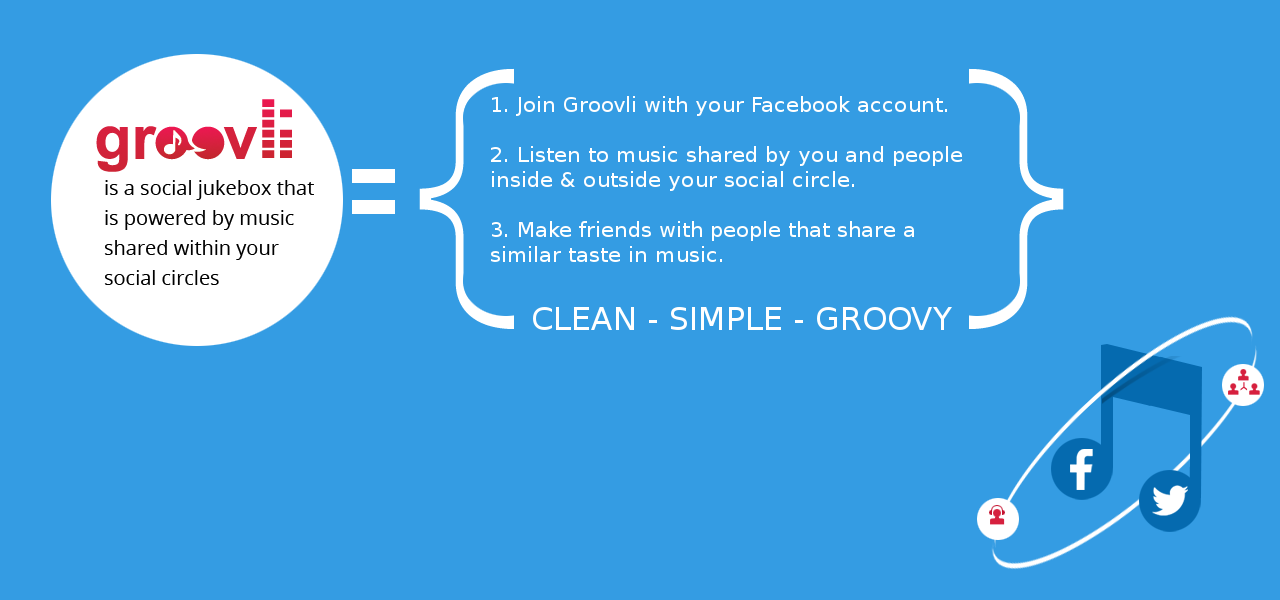
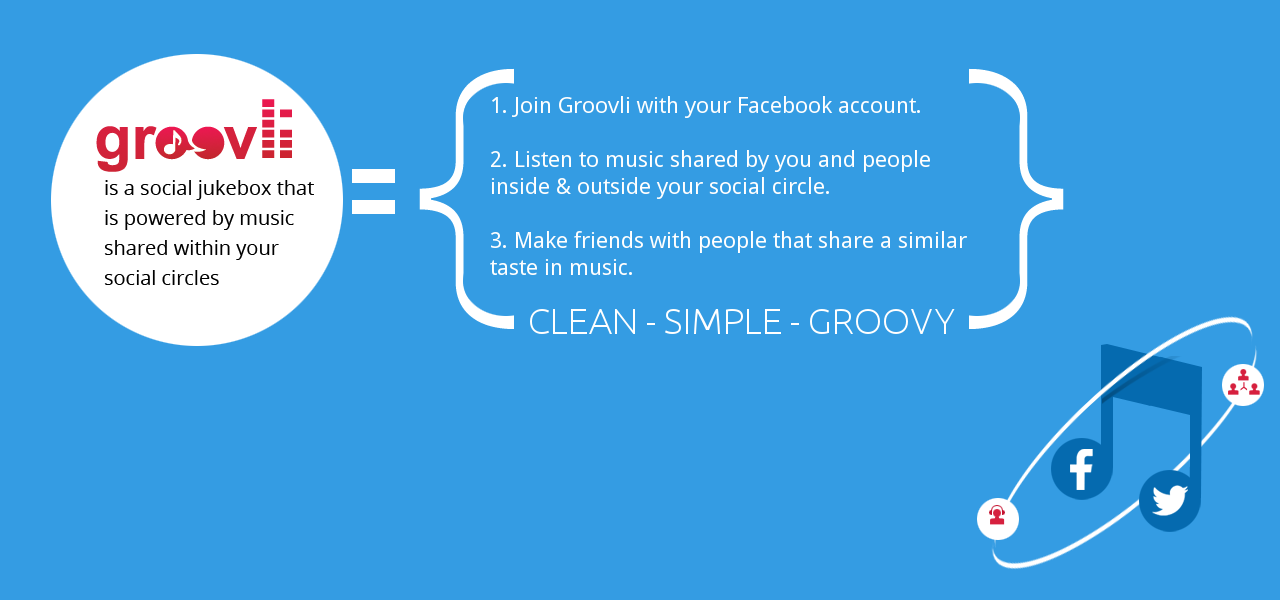
made visual tweaks to landing page to more closely resemble the visual prototypes

diff --git a/client/templates/semantic/landing/semanticLanding.html b/client/templates/semantic/landing/semanticLanding.html
@@ -1,7 +1,8 @@
 <template name="semanticLanding">
 <!-- Landing Page Menu -->
 	<div class="ui two column centered grid">
-		<div class="eleven wide column mastheadHomeOrange">
+		<div class="three wide computer column mastheadHomeOrange"></div>
+		<div class="ten wide column mastheadHomeOrange">
 			<div style="background-color:white;">
 				<div class="ui secondary menu">
 				  <div class="ui container">
@@ -11,8 +12,7 @@
 					<div class="right menu">
 						<div class="item">
 							{{#if currentUser}}
-								<a id="clickHomeFromLanding" class="item">Home</a>
-								<div class="header item">logged in as {{currentUser.services.facebook.first_name}} <img class="ui avatar image" src="http://graph.facebook.com/{{currentUser.services.facebook.id}}/picture?type=square"></div> (<a id="logout" class="item">Logout</a>)
+								<a id="clickHomeFromLanding" class="item">Home</a><img class="ui avatar image" src="http://graph.facebook.com/{{currentUser.services.facebook.id}}/picture?type=square"><a id="logout" class="item">Logout</a>
 								<!--
 								<a class="ui simple dropdown landingDropdownMenu item">
 									<img class="ui avatar image" src="http://graph.facebook.com/{{currentUser.services.facebook.id}}/picture?type=square"> {{currentUser.services.facebook.first_name}}
@@ -50,51 +50,61 @@
 			    </div>
 			</div>
 		</div>
+		<div class="three wide computer column mastheadHomeOrange"></div>
 	</div>
 
 <!-- What's trending section-->
 	<div class="ui two column centered grid">
-		<div class="eleven wide column homePlayerTabsContainerBoxBackground">
-			<h1 class="ui header">What's trending:</h1>	
+		<div class="three wide computer column landingPageTrendingBoxBackground"></div>
+		<div class="ten wide column landingPageTrendingBoxBackground">
 		  <div class="ui vertical stripe segment">
 		    <div class="ui middle aligned stackable grid container">
-		      <div class="row">
-		        <div class="column">
-					<div class="ui five cards doubling grid container">
-						{{#each trendingSongs}}
-							<div class="card">
-								<div class="image">
-									<img src="{{iTunesLargeAlbumArt}}">
-								</div>
-								<div class="extra">
-									<b>{{st}}</b> <i>by</i>
-									<div class="content"><b>{{sa}}</b></div>
-								</div>
+	        	<h2 class="landingPageHeaderFont">What's trending</h2>
+				<div class="doubling five column row">
+					{{#each trendingSongs}}
+						<div class="column">
+							<img class="ui small image" src="{{iTunesLargeAlbumArt}}">
+							<div class="content">
+								<b>{{st}}</b> <i>by</i>
+								<div class="content"><b>{{sa}}</b></div>
 							</div>
-						{{/each}}
-					</div>
-		        </div>
-		      </div>
+						</div>
+						<!--<div class="card">
+							<div class="image">
+								<img src="{{iTunesLargeAlbumArt}}">
+							</div>
+							<div class="content">
+								<b>{{st}}</b> <i>by</i>
+								<div class="content"><b>{{sa}}</b></div>
+							</div>
+						</div>-->
+
+					{{/each}}
+				</div>
 		    </div>
 		  </div>
 	  </div>
+	  <div class="three wide computer column landingPageTrendingBoxBackground"></div>
   	</div>
 
 <!-- How Groovli Works section - Mobile & Computer separate-->  	
 
   	<div class="computer tablet only ui two column centered grid">
-		<div class="eleven wide column homeHowGroovliWorksSegment">
+  		<div class="three wide computer column homeHowGroovliWorksSegment"></div>
+		<div class="ten wide column homeHowGroovliWorksSegment">
 			<div class="row">
-				<h1 class="ui inverted header">How Groovli works</h1>
+				<h2 class="landingPageHeaderFont" style="color:white;">How Groovli works</h2>
 				<h2></h2>
 			</div>
 		  <img class="ui fluid image" src="../images/groovli_howitworks.png">
-	  </div>
+	 	</div>
+	 	<div class="three wide computer column homeHowGroovliWorksSegment"></div>
   	</div>
 
   	<div class="mobile only ui centered grid">
-		<div class="eleven wide column grid homeHowGroovliWorksSegment">
-			<h1 class="ui inverted header">How Groovli works
+  		<div class="three wide computer column homeHowGroovliWorksSegment"></div>
+		<div class="ten wide column grid homeHowGroovliWorksSegment">
+			<h1 class="landingPageHeaderFont" style="color:white;">How Groovli works
 			<img class="ui tiny image floated right" src="../images/groovli_mobile_how.png"></h1>
 			<h1></h1>
 			<div class="ui list">
@@ -108,22 +118,22 @@
 			    3. Make friends with people that share a similar taste in music.
 			  </h3>
 			</div>
-	  </div>
+	  	</div>
+	  	<div class="three wide computer column homeHowGroovliWorksSegment"></div>
   	</div>
 
 <!-- Songs recently listened to -->  	
 
   	<div class="ui two column centered grid">
-		<div class="eleven wide column homePlayerTabsContainerBoxBackground">
-			<div class="row">
-				<h1 class="ui red header">Someone just listened to:</h1>
-				<h2 class="ui red header"></h2>
-			</div>
-		  	<div class="ui six column doubling grid container">
+  		<div class="three wide computer column landingPageTrendingBoxBackground"></div>
+		<div class="ten wide column landingPageTrendingBoxBackground">
+			<h2 class="landingPageHeaderFont" style="color: #df455f">Someone just listened to...</h2>
+		  	<div class="ui four column doubling grid container">
+
 		  		{{#each songsJustListened}}
 					<div class="column">
 						<div class="item">
-							<img class="ui tiny rounded image" src="{{iTunesLargeAlbumArt}}">
+							<img class="ui tiny image" src="{{iTunesLargeAlbumArt}}">
 							<div class="content">
 							<div class="header">{{sa}}</div>
 								{{st}}
@@ -136,6 +146,7 @@
 				<div class="column"></div>
 		  	</div>
   		</div>
+  		<div class="three wide computer column landingPageTrendingBoxBackground"></div>
   	</div>
 
 <!-- Landing Page Footer section-->  	

diff --git a/lib/collections/songs.js b/lib/collections/songs.js
@@ -625,7 +625,7 @@ Meteor.methods({
         		"album": 1
       	}}).fetch();*/
 
-		var x = Songs.find({$and: [{'cover': {'$ne': true}}, {'iTunesLargeAlbumArt': {'$ne': ''}}, {'iTunesLargeAlbumArt': {'$ne': 'none'}}, {'iTunesLargeAlbumArt': { $regex: /^http:/i }}, {'sl': {$in: randomSample}}]}, {sort: {'sharedBy.systemDate': -1}, limit:6, 
+		var x = Songs.find({$and: [{'cover': {'$ne': true}}, {'iTunesLargeAlbumArt': {'$ne': ''}}, {'iTunesLargeAlbumArt': {'$ne': 'none'}}, {'iTunesLargeAlbumArt': { $regex: /^http:/i }}, {'sl': {$in: randomSample}}]}, {sort: {'sharedBy.systemDate': -1}, limit:4, 
 			fields: {
 				"iTunesLargeAlbumArt": 1,
         		"sa": 1,

diff --git a/client/stylesheets/style.css b/client/stylesheets/style.css
@@ -1,3 +1,5 @@
+@import url(https://fonts.googleapis.com/css?family=Droid+Sans);
+
 .sitewideOrange{
 	background-color:#f68e15;
 	color:white;
@@ -61,6 +63,15 @@
 
 .homePlayerTabsContainerBoxBackground{
 	background-color:#D9D9D9;
+}
+
+.landingPageTrendingBoxBackground{
+	background-color:#f1f0eb;
+}
+
+.landingPageHeaderFont{
+	font-family: 'Droid Sans', sans-serif;
+	font-weight: 400;
 }
 
 .homeHowGroovliWorksSegment{
